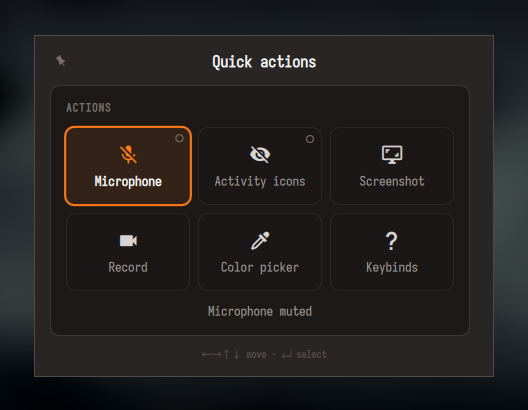
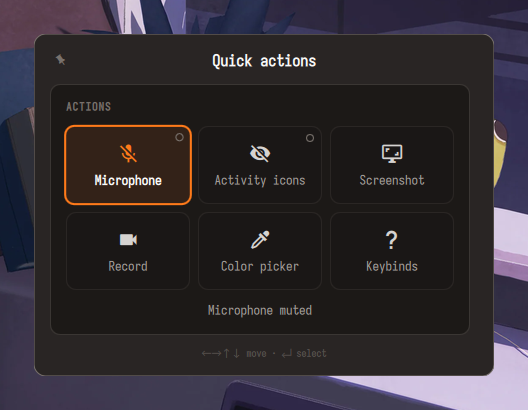
feat(scripts): add gallery-shots.sh to retake README gallery pictures; refresh all popup shots
Opens each popup through its Quickshell global shortcut on an empty
workspace and crops to the area that differs from a baseline capture.

diff --git a/scripts/README.md b/scripts/README.md
@@ -59,6 +59,7 @@ All notification calls go through `lib/notify.sh`. Daemons use `set -uo pipefail
 |---|---|
 | `doctor.sh` | Read-only health check: required commands, user units, executable bits, dotfiles-manager symlinks, battery timer. Exit 1 on failure. |
 | `screenshot-window.sh` | Screenshot of the active window (`hyprctl activewindow -j`), same save/copy/notify as `screenshot.sh`. |
+| `gallery-shots.sh` | Retakes the README gallery pictures: switches to an empty workspace, opens each popup via its Quickshell global shortcut (and fires a test notification for the toast), then crops to the area that differs from a baseline capture. `gallery-shots.sh [name...]` retakes only named shots, `--list` prints them. Restores your workspace. Review the PNGs before committing: popups show real clipboard history and device names. |
 | `night.sh` | `toggle\|on\|off\|status` night light via `hyprsunset`; `NIGHT_TEMPERATURE` in `util.env`. |
 | `scratchpad.sh` | Toggle a drop-down kitty on the `special:scratchpad` workspace. |
 | `idle-inhibit-toggle.sh` | Manual idle inhibit toggle; PID in `$XDG_RUNTIME_DIR/idle-inhibit.pid`. |
